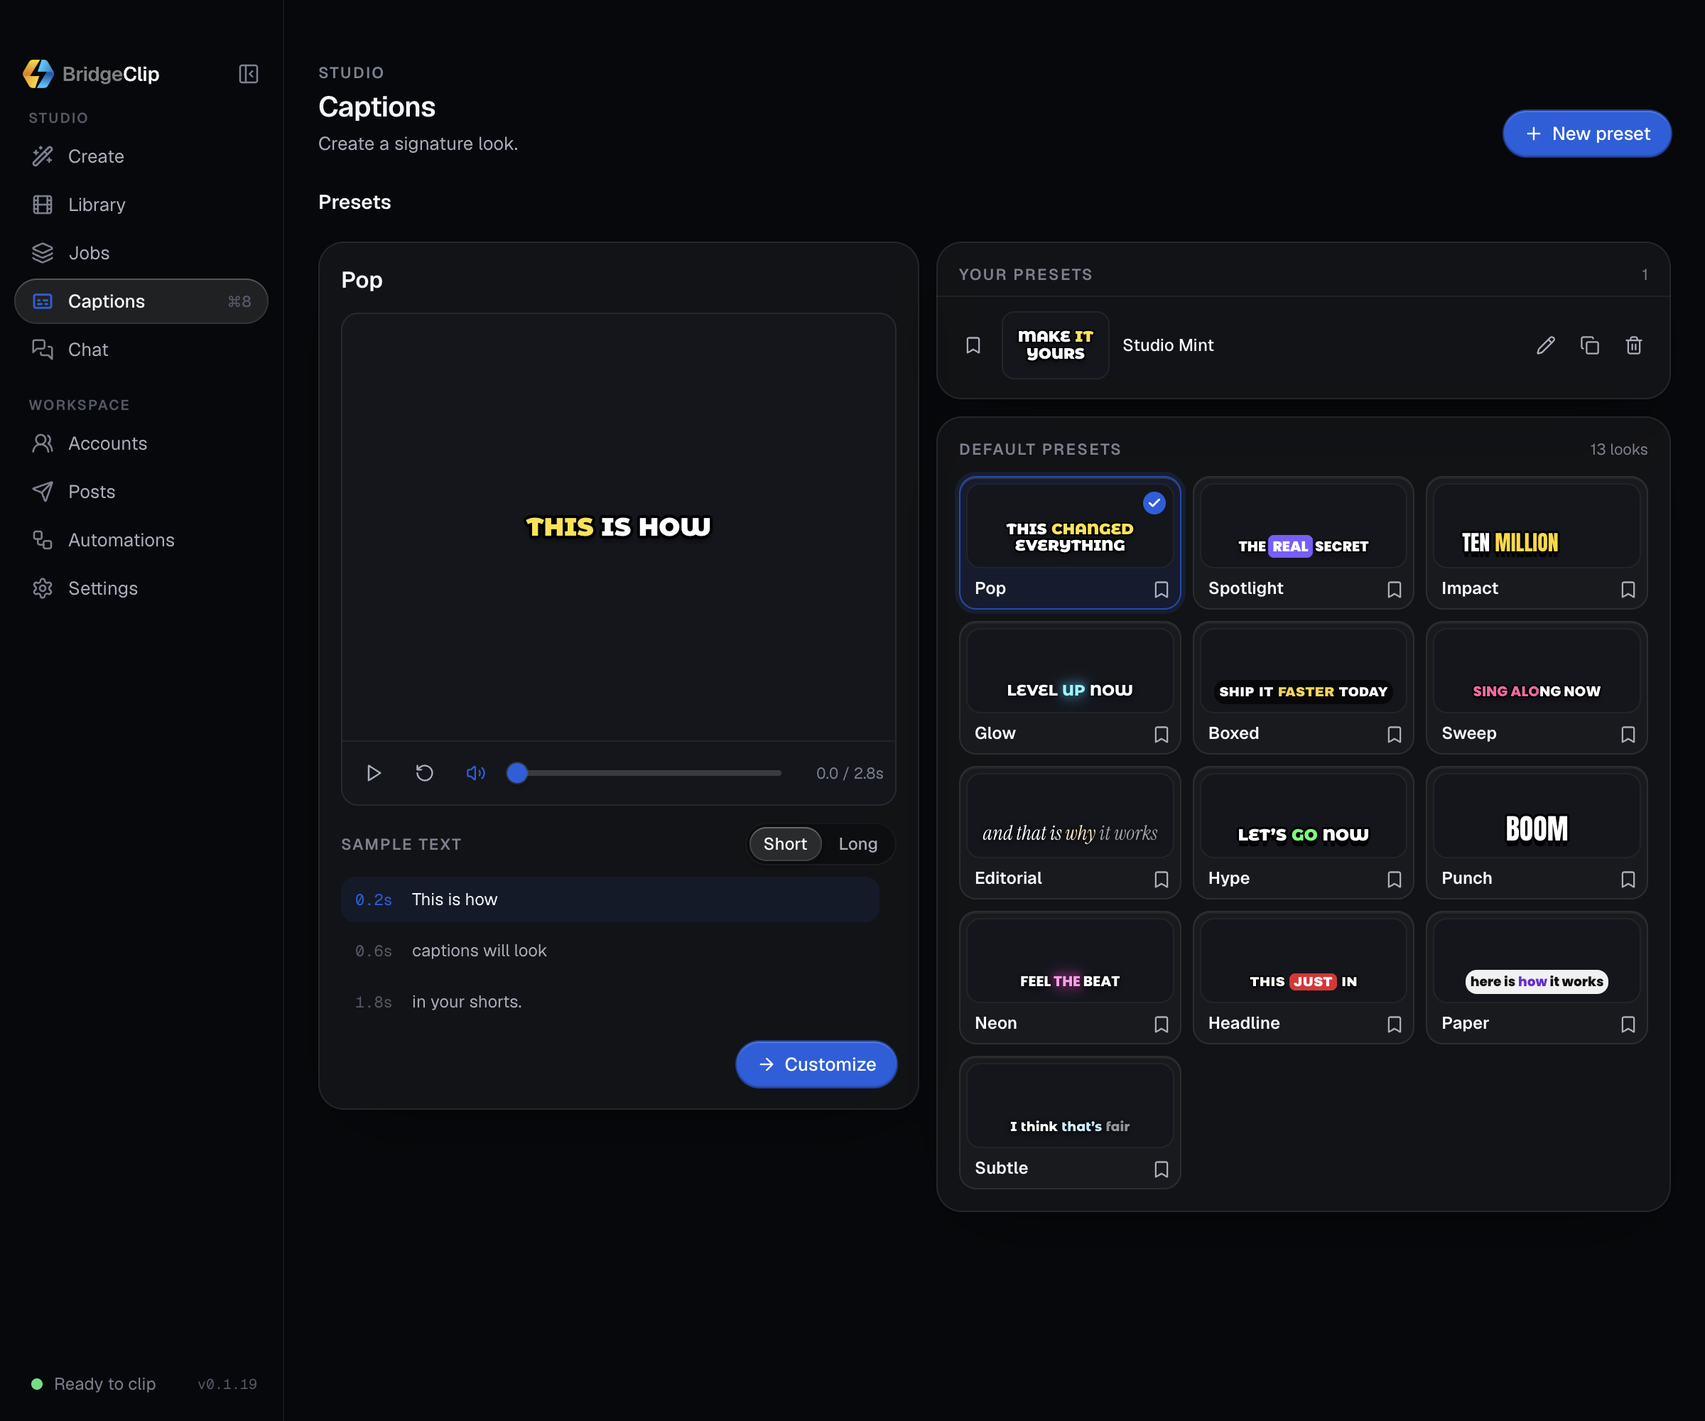
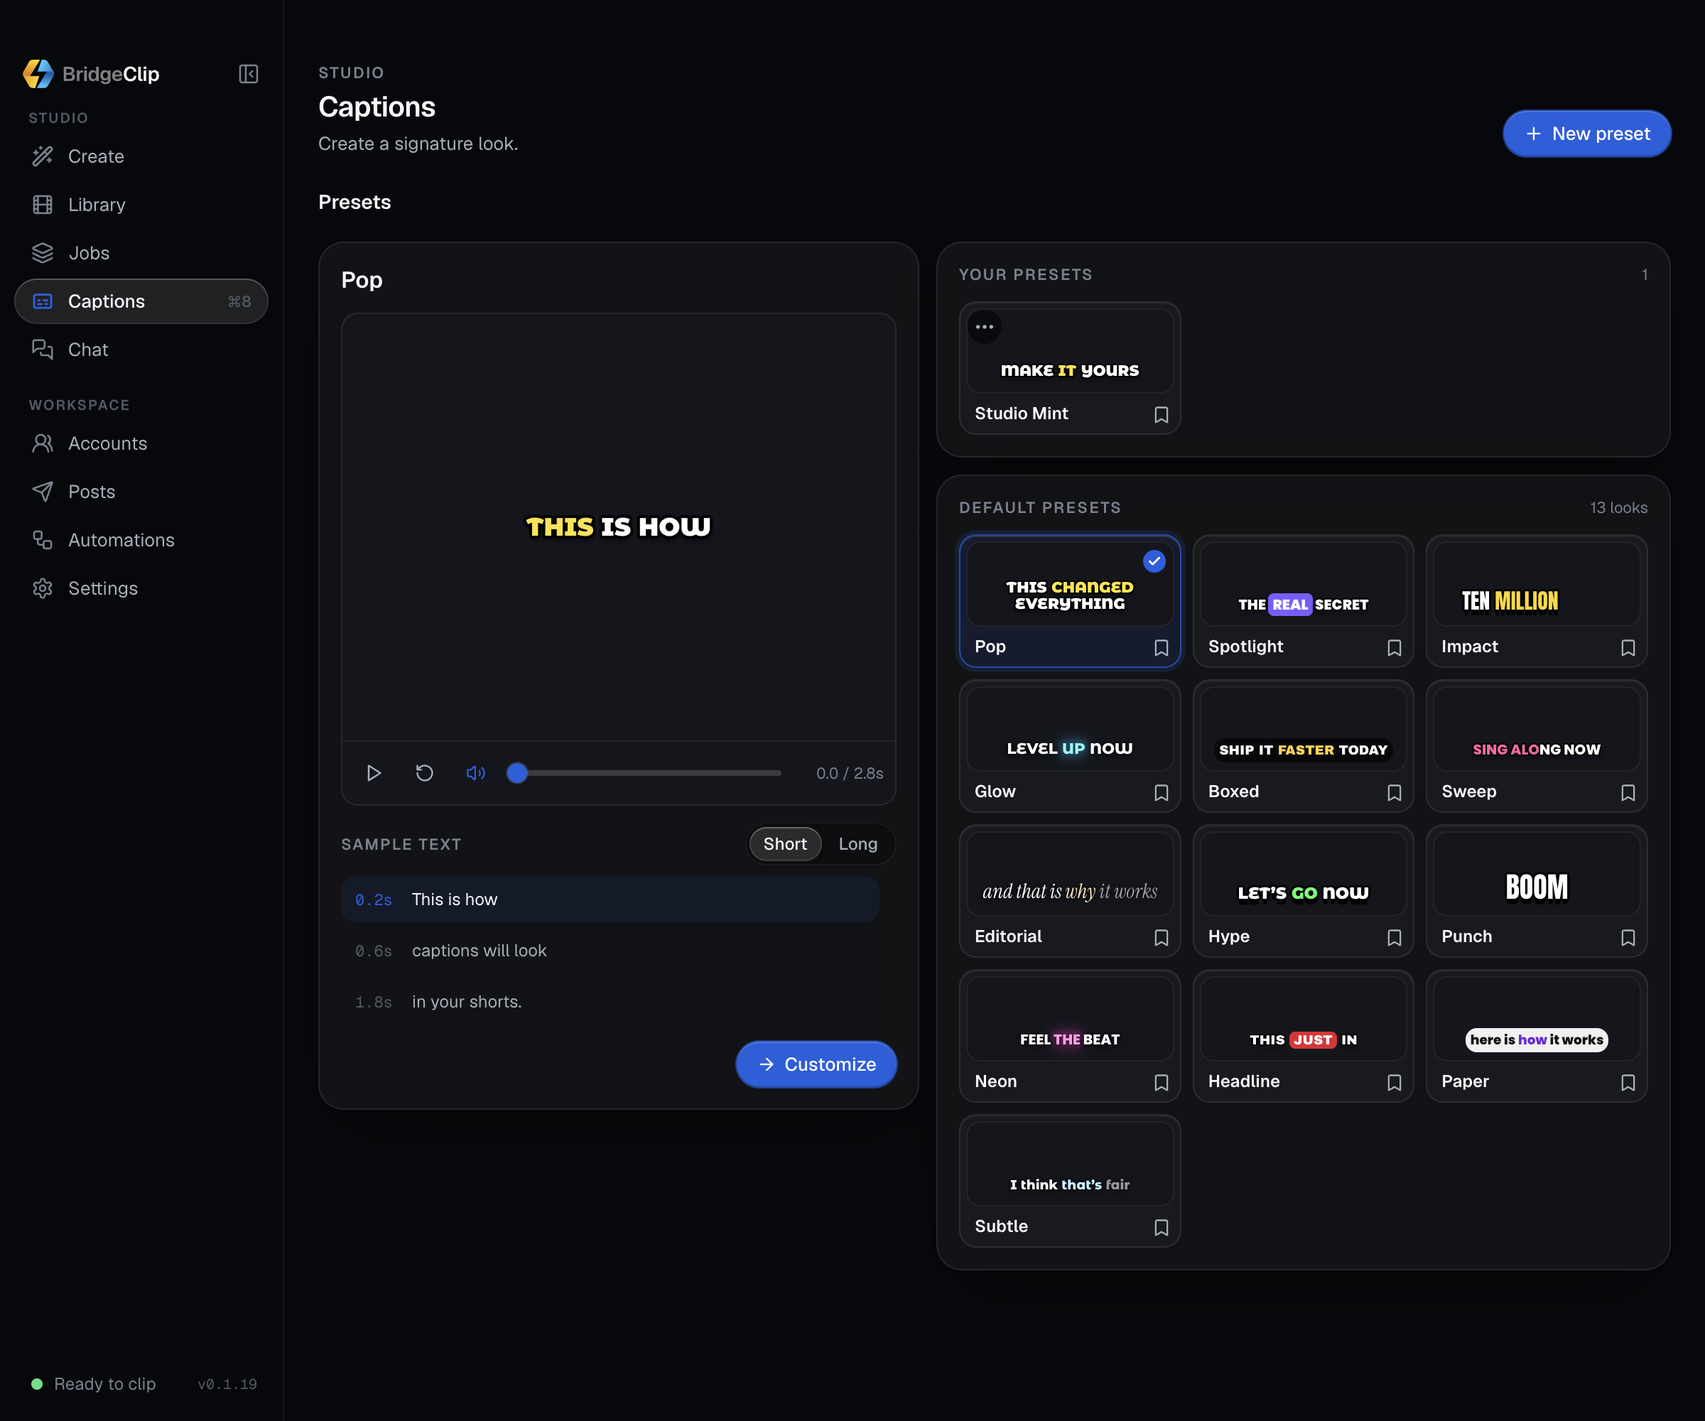
feat(captions): display saved presets as matching cards

diff --git a/src/renderer/pages/CaptionsPage.tsx b/src/renderer/pages/CaptionsPage.tsx
@@ -2,8 +2,8 @@ import { useEffect, useRef, useState, type ReactNode } from 'react'
 import { ArrowLeft, ArrowRight, Check, Copy, Pencil, Plus, Save, Trash2 } from 'lucide-react'
 import { CAPTION_FONTS, defaultCaptionStyle, parseCustomCaption, type CaptionStyleSettings, type CustomCaptionPreset } from '../../shared/custom-captions'
 import { DEFAULT_CAPTION_PRESET, isCaptionPresetId, type CaptionPresetId } from '../../shared/caption-presets'
-import { PRESETS, CaptionMotionPreview, CaptionSample, CaptionStyleTile, captionPreviewPreset } from '../components/CaptionPresetPicker'
-import { CaptionFavoriteButton } from '../components/CaptionFavoriteButton'
+import { PRESETS, CaptionMotionPreview, CaptionStyleTile, captionPreviewPreset } from '../components/CaptionPresetPicker'
+import { ActionMenu } from '../components/ui/ActionMenu'
 import type { Page as PageId } from '../components/Sidebar'
 import { Button } from '../components/ui/Button'
 import { Callout } from '../components/ui/Callout'
@@ -188,22 +188,19 @@ export function CaptionsPage({ onNavigate }: { onNavigate: (page: PageId) => voi
           </div>}
         </Panel>
         {stage !== 'edit' && <div ref={catalogRef} className="caption-catalog space-y-3">
-          {stage === 'home' && <Panel padded={false} className="caption-preset-library">
-            <div className="flex items-center justify-between px-4 pt-4 pb-2"><h3 className="eyebrow">Your presets</h3><span className="text-2xs text-ink-subtle">{styles.length}</span></div>
-            <table aria-label="Your caption presets" className="caption-preset-table">
-              <thead className="sr-only"><tr><th scope="col">Preset</th><th scope="col">Actions</th></tr></thead>
-              <tbody>{orderedStyles.map(style => <tr key={style.id} data-reorder-key={style.id} aria-label={style.name} data-selected={selectedStyle?.id === style.id}>
-                <td><div className="flex min-w-0 items-center gap-1.5"><CaptionFavoriteButton id={style.id} name={style.name} disabled={busy} beforeToggle={() => capture(style.id)} /><button type="button" className="caption-preset-name" disabled={busy} aria-label={`Preview ${style.name}`} aria-pressed={selectedStyle?.id === style.id} onClick={() => useCaptionStore.setState({ selectedCustomId: style.id, selectedBaseId: isCaptionPresetId(style.baseId) ? style.baseId : DEFAULT_CAPTION_PRESET })}>
-                  <span className="caption-preset-sample" aria-hidden="true"><CaptionSample preset={captionPreviewPreset(style.baseId, style)} /></span>
-                  <span className="min-w-0 truncate font-medium text-ink" title={style.name}>{style.name}</span>
-                </button></div></td>
-                <td><div className="caption-preset-actions">
-                  <Button size="sm" variant="ghost" iconOnly aria-label={`Edit ${style.name}`} tooltip="Edit preset" icon={<Pencil size={14} />} disabled={busy} onClick={() => beginEdit(style)} />
-                  <Button size="sm" variant="ghost" iconOnly aria-label={`Duplicate ${style.name}`} tooltip="Duplicate preset" icon={<Copy size={14} />} disabled={busy} onClick={() => beginEdit(makeDraft(style.baseId, style))} />
-                  <Button size="sm" variant="ghost" iconOnly aria-label={`Delete ${style.name}`} tooltip="Delete preset" icon={<Trash2 size={14} />} disabled={busy} onClick={() => { setError(null); setDeleteTarget(style) }} />
-                </div></td>
-              </tr>)}</tbody>
-            </table>
+          {stage === 'home' && <Panel>
+            <div className="mb-3 flex items-center justify-between"><h3 className="eyebrow">Your presets</h3><span className="text-2xs text-ink-subtle">{styles.length}</span></div>
+            <div className="caption-base-grid" role="radiogroup" aria-label="Your caption presets">
+              {orderedStyles.map((style, index) => <CaptionStyleTile key={style.id} preset={captionPreviewPreset(style.baseId, style)} selected={selectedStyle?.id === style.id} disabled={busy}
+                tabIndex={selectedStyle ? selectedStyle.id === style.id ? 0 : -1 : index === 0 ? 0 : -1}
+                beforeBookmark={() => capture(style.id)}
+                onClick={() => useCaptionStore.setState({ selectedCustomId: style.id, selectedBaseId: isCaptionPresetId(style.baseId) ? style.baseId : DEFAULT_CAPTION_PRESET })}
+                actions={<ActionMenu label={`Actions for ${style.name}`} disabled={busy} triggerClassName="h-6 w-6 rounded-full bg-black/50" actions={[
+                  { label: 'Edit preset', icon: <Pencil size={14} />, onSelect: () => beginEdit(style) },
+                  { label: 'Duplicate', icon: <Copy size={14} />, onSelect: () => beginEdit(makeDraft(style.baseId, style)) },
+                  { label: 'Delete', icon: <Trash2 size={14} />, danger: true, onSelect: () => { setError(null); setDeleteTarget(style) } }
+                ]} />} />)}
+            </div>
           </Panel>}
           <Panel>
             <div className="mb-3 flex items-center justify-between"><h3 className="eyebrow">Default presets</h3><span className="text-2xs text-ink-subtle">{PRESETS.length} looks</span></div>

diff --git a/src/renderer/pages/captions.css b/src/renderer/pages/captions.css
@@ -13,19 +13,9 @@
 .caption-lab-preview [aria-label="Caption preview"] { margin-bottom: 0; }
 .caption-lab-preview .caption-preview-stage { height: 300px; }
 .caption-catalog { min-width: 0; overflow-anchor: none; }
-.caption-preset-library { padding-bottom: 4px; }
 .caption-lab-controls { min-width: 0; }
 .caption-demo-lines { max-height: 164px; scrollbar-gutter: stable; }
 .caption-lab-effects { display: grid; grid-template-columns: repeat(auto-fit, minmax(132px, 1fr)); gap: 8px; }
-.caption-preset-table { width: 100%; table-layout: fixed; border-collapse: collapse; font-size: 12px; }
-.caption-preset-table td { padding: 10px 12px; border-top: 1px solid rgb(255 255 255 / .06); }
-.caption-preset-table td:last-child { width: 104px; padding-left: 0; }
-.caption-preset-table tbody tr { position: relative; transition: background 160ms ease; }
-.caption-preset-table tbody tr:hover, .caption-preset-table tbody tr:focus-within { background: rgb(255 255 255 / .025); }
-.caption-preset-table tbody tr[data-selected="true"] { background: rgb(var(--accent) / .08); }
-.caption-preset-name { display: flex; width: 100%; min-width: 0; align-items: center; gap: 9px; text-align: left; border-radius: 8px; }
-.caption-preset-sample { display: flex; flex: 0 0 76px; height: 48px; align-items: center; justify-content: center; padding: 6px; border-radius: 9px; background: #14161d; box-shadow: inset 0 0 0 1px rgb(255 255 255 / .06); overflow: hidden; }
-.caption-preset-actions { display: flex; align-items: center; justify-content: flex-end; gap: 3px; white-space: nowrap; }
 .caption-color { width: 24px; height: 24px; padding: 0; border: 0; background: transparent; cursor: pointer; border-radius: 6px; }
 .caption-color::-webkit-color-swatch-wrapper { padding: 2px; }
 .caption-color::-webkit-color-swatch { border: 1px solid rgb(255 255 255 / .2); border-radius: 5px; }
@@ -47,5 +37,5 @@
   .caption-catalog, .caption-lab-controls :is(input, button, [tabindex], label) { scroll-margin-top: calc(var(--caption-compact-stage) + 258px); scroll-margin-bottom: 16px; }
 }
 @media (prefers-reduced-motion: reduce) {
-  .caption-creation-steps button, .caption-preset-table tbody tr { transition: none; }
+  .caption-creation-steps button { transition: none; }
 }

diff --git a/src/renderer/components/CaptionPresetPicker.tsx b/src/renderer/components/CaptionPresetPicker.tsx
@@ -1,4 +1,4 @@
-import { useEffect, useMemo, useRef, useState, type CSSProperties } from 'react'
+import { useEffect, useMemo, useRef, useState, type CSSProperties, type ReactNode } from 'react'
 import { Bookmark, Check, Pause, Play, RotateCcw, Volume2, VolumeX } from 'lucide-react'
 import { defaultCaptionStyle, type CustomCaptionPreset } from '../../shared/custom-captions'
 import type { CaptionPresetId } from '../../shared/caption-presets'
@@ -747,7 +747,7 @@ export function CaptionPresetPicker({ value, customCaption, onChange, disabled, 
   )
 }
 
-export function CaptionStyleTile({ preset, selected, disabled, onClick, tabIndex, onBookmark, beforeBookmark }: { preset: CaptionPreset; selected: boolean; disabled?: boolean; onClick: () => void; tabIndex?: number; onBookmark?: () => void; beforeBookmark?: () => void }): React.JSX.Element {
+export function CaptionStyleTile({ preset, selected, disabled, onClick, tabIndex, onBookmark, beforeBookmark, actions }: { preset: CaptionPreset; selected: boolean; disabled?: boolean; onClick: () => void; tabIndex?: number; onBookmark?: () => void; beforeBookmark?: () => void; actions?: ReactNode }): React.JSX.Element {
   return <div className="caption-style-slot relative min-w-0" data-reorder-key={preset.id}><div className={cn('caption-style-card relative', disabled && 'is-disabled')}>
     <button type="button" role="radio" aria-checked={selected} aria-label={preset.name} aria-description={preset.description}
     title={`${preset.name} · ${preset.description}`} disabled={disabled} tabIndex={tabIndex ?? (selected ? 0 : -1)} onClick={onClick} onKeyDown={onRadioKeyDown}
@@ -758,6 +758,7 @@ export function CaptionStyleTile({ preset, selected, disabled, onClick, tabIndex
     </span>
     <span className="block truncate pb-0.5 pl-1.5 pr-7 pt-1.5 text-xs font-semibold text-ink">{preset.name}</span>
     </button>
+    {actions && <div className="absolute left-1.5 top-1.5">{actions}</div>}
     <CaptionFavoriteButton id={preset.id} name={preset.name} disabled={disabled} beforeToggle={beforeBookmark} onToggle={onBookmark} className="absolute bottom-0.5 right-0.5 h-6 w-6" />
   </div></div>
 }

diff --git a/docs/usage.md b/docs/usage.md
@@ -58,9 +58,9 @@ See [video speed](video-speed.md) for timing and export details.
 
 Open **Captions** in the sidebar or **Open captions lab** in Create’s Captions step. Your first preset starts with **Choose a base**: select a default, preview it, then choose **Customize**. Adjust its typeface, font size, text and highlight colors, word grouping, animation, outline, pill, glow or background. Enabling **Background** reveals separate **Horizontal padding** and **Vertical padding** sliders, plus opacity. New presets start with 24 horizontal padding. Both axes also apply to exports; existing presets keep their saved padding on each axis. Under **Sample text**, switch between **Short** and **Long** voice samples. Select a line to jump to that part of the recording; the line list updates with your caption settings. Pause or scrub the preview to compare timing. Previews start muted. Use the speaker button to hear the sample; your sound and sample choices carry across styles while the app is open.
 
-Give it a name and choose **Save preset** to save without leaving the editor. **Back to presets** opens your table with edit, duplicate and delete actions; future visits start there. Select a saved preset's name or sample to preview it without editing. The preview stays in the left column when you choose **Edit preset**; on compact windows it stays above the controls. **New preset** starts the base-selection wizard again. Leaving unsaved caption edits offers **Save & leave**, **Discard**, or **Keep editing**. Reloading or closing the app also asks whether to save. When opened from Create, **Save & use** returns to the same draft with the preset selected, or select one in the table and choose **Use preset** below the preview. Default styles and **Your styles** are separate in caption pickers. Each job and editor clip keeps its own style snapshot, so later library edits and deletions do not change an existing clip. A custom style can also be selected in the editor before baking.
+Give it a name and choose **Save preset** to save without leaving the editor. **Back to presets** opens **Your presets** as cards matching the default styles, with edit, duplicate and delete in each card’s **…** menu; future visits start there. Select a saved preset card to preview it without editing. The preview stays in the left column when you choose **Edit preset**; on compact windows it stays above the controls. **New preset** starts the base-selection wizard again. Leaving unsaved caption edits offers **Save & leave**, **Discard**, or **Keep editing**. Reloading or closing the app also asks whether to save. When opened from Create, **Save & use** returns to the same draft with the preset selected, or select a card and choose **Use preset** below the preview. Default styles and **Your styles** are separate in caption pickers. Each job and editor clip keeps its own style snapshot, so later library edits and deletions do not change an existing clip. A custom style can also be selected in the editor before baking.
 
-Default presets also appear below your saved table. Select one to preview it, choose **Customize** to start a new preset, or **Use preset** to return it to Create. The initial base-selection wizard remains available when you have no custom presets.
+Default presets also appear below your saved cards. Select one to preview it, choose **Customize** to start a new preset, or **Use preset** to return it to Create. The initial base-selection wizard remains available when you have no custom presets.
 
 Use the bookmark beside a custom preset or on any default tile to add it to **Favorites**. Bookmarks stay saved on this device across app launches and move smoothly to the front of each group, with reduced-motion preferences respected. In Create and the clip editor, switch from **All** to **Favorites** to show only your bookmarks; default and custom styles remain separate. New clip setups select the first available bookmark in picker order (defaults, then custom styles), or Pop if none are available. Once selected, bookmarking or filtering does not change the draft's caption style. Renaming a preset keeps its bookmark, and deleting it removes the bookmark.
 

diff --git a/CHANGELOG.md b/CHANGELOG.md
@@ -14,7 +14,7 @@ The format follows [Keep a Changelog](https://keepachangelog.com/en/1.1.0/). Mai
 
 - **Clean published content** in Settings → About → Content storage previews reclaimable space and removes selected local posted clips or fully published projects. Online posts, queued deliveries and unfinished edits are kept.
 - Content storage tracks retained source videos and editor previews for **Review & edit**, and lets you free media from finished projects while keeping their exports.
-- **Captions lab**: choose a base, then customize the typeface, size, colors, animation and effects. Saved presets open in a table with edit, duplicate and delete actions, ready for Create and the editor.
+- **Captions lab**: choose a base, then customize the typeface, size, colors, animation and effects. Saved presets appear as cards with edit, duplicate and delete actions, ready for Create and the editor.
 - Caption presets can arrange captions across 1, 2 or 3 balanced lines, or keep Auto wrapping, in both previews and exports.
 
 - **What to clip** in Create → Clips: describe the moments you want, such as "every time they talk about pricing". Leave it blank to get the strongest moments as before.
@@ -35,7 +35,9 @@ The format follows [Keep a Changelog](https://keepachangelog.com/en/1.1.0/). Mai
 
 ### Changed
 
-- Captions previews saved presets directly from the table and keeps the preview in the same position while editing. Bookmarked styles move smoothly to the front of their list, and bookmark icons move with hovered cards.
+- **Your presets** on the Captions page uses the same cards as Default presets, with preview selection, bookmarks and a compact menu for edit, duplicate and delete.
+
+- Captions previews saved presets directly from their cards and keeps the preview in the same position while editing. Bookmarked styles move smoothly to the front of their list, and bookmark icons move with hovered cards.
 - Captions opens previews paused with sample text visible; press Play to hear or watch them. New clip setups select your first bookmarked caption style, falling back to Pop when there are no available bookmarks.
 - Captions shows default styles below your saved presets, with previews and actions to customize or use them in Create.
 - Posts explains its activity feed below the heading and makes clear that dismissing updates keeps published posts and Library status intact.
@@ -58,7 +60,7 @@ The format follows [Keep a Changelog](https://keepachangelog.com/en/1.1.0/). Mai
 - Caption previews match export color-fade timing, including an instant switch for short words and styles without a fade.
 
 - Caption drafts survive restarts, and development runs rebuild background code when shared settings change.
-- Custom presets keep their complete appearance when a starting default is changed or retired; the preset table no longer shows Base.
+- Custom presets keep their complete appearance when a starting default is changed or retired; presets no longer show Base.
 - Captions lab previews wrap larger text and word groups within the portrait video's width.
 - Quality mode now correctly identifies **Claude Opus 5.5** as the model that finds moments. Review reflects the selected settings and the effective behavior of each workflow.
 

diff --git a/docs/screenshots/studio-polish/README.md b/docs/screenshots/studio-polish/README.md
@@ -15,7 +15,7 @@ The **before** images were captured from upstream `main` at `b996820`, except th
 | Delete a Library item | ![Original deletion confirmation](delete-before.png) | ![Space estimate and visual deletion summary](delete-after.png) |
 | Settings → Content storage | ![Original storage total](storage-before.png) | ![Cleanup controls and source storage breakdown](storage-after.png) |
 | Captions editor | ![Earlier draft with repeated preview labels](captions-editor-before.png) | ![Simplified preview and separate padding controls](captions-lab.png) |
-| Caption browser | ![Table above defaults and a separate preview on the right](captions-browse-before.png) | ![Custom and default presets share a preview on the left](captions-table.png) |
+| Caption browser | ![Table above defaults and a separate preview on the right](captions-browse-before.png) | ![Custom and default presets share a preview on the left](captions-cards.png) |
 | Posts | ![Ten recent posts and Show all](posts-before.png) | ![Numbered pages with a shared page-size preference](posts-after.png) |
 
 ## Storage cleanup
@@ -34,9 +34,9 @@ Choose a default as a starting point, then adjust your own preset with a live pr
 
 ![Editing a custom caption preset with two lines](captions-lab.png)
 
-Once presets are saved, the page opens with a table and a New preset action. Select a custom preset's name or sample to preview it without opening an edit. Default styles remain below the table, and both use the same preview on the left. Edit swaps the list for controls without moving or resizing that preview.
+Once presets are saved, the page opens with matching card grids and a New preset action. Select a custom preset card to preview it without opening an edit; its **…** menu offers edit, duplicate and delete. Default styles remain below Your presets, and both use the same preview on the left. Edit swaps the list for controls without moving or resizing that preview.
 
-![Custom presets and default styles with bookmarks](captions-table.png)
+![Custom presets and default styles with bookmarks](captions-cards.png)
 
 ![The same preset preview stays in position while editing](captions-edit-position.png)
 
